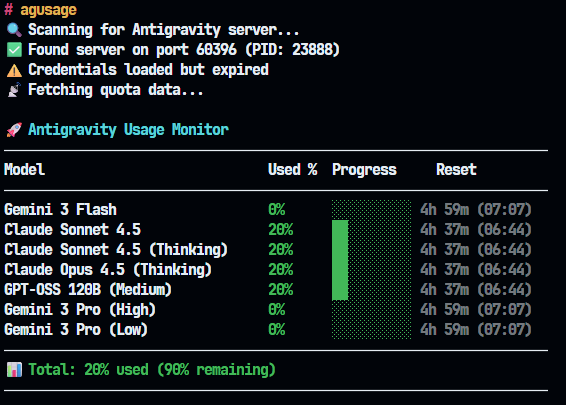
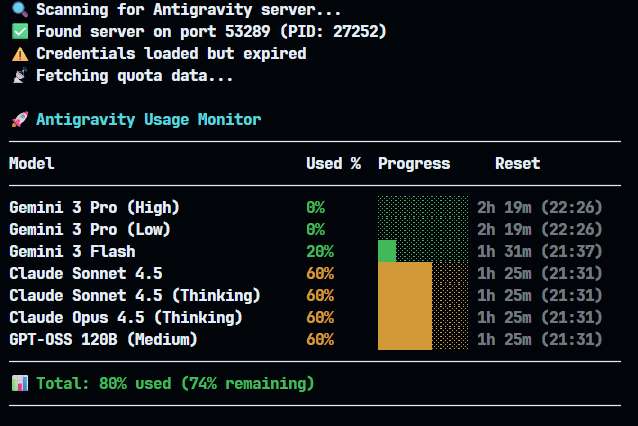
fix: total usage calculation and shared quota deduplication

diff --git a/internal/display/formatter.go b/internal/display/formatter.go
@@ -82,6 +82,7 @@ type quotaKey struct {
 	Used      float64
 	Limit     float64
 	Remaining float64
+	ResetTime string
 }
 
 func calculateTotals(models []api.QuotaInfo) (float64, float64, float64) {
@@ -93,6 +94,7 @@ func calculateTotals(models []api.QuotaInfo) (float64, float64, float64) {
 			Used:      model.Used,
 			Limit:     model.Limit,
 			Remaining: model.Remaining,
+			ResetTime: model.ResetTime,
 		}
 
 		if !uniqueQuotas[key] {
@@ -143,7 +145,7 @@ func printFooter(used, limit, remaining float64, tier string, credits int) {
 	summaryColor := getRemainingColor(totalRemainingPercent)
 
 	fmt.Printf("%s📊 Total: %.1f%% used (%.1f%% remaining)%s\n",
-		summaryColor, used, totalRemainingPercent, Reset)
+		summaryColor, totalUsagePercent, totalRemainingPercent, Reset)
 	fmt.Println(strings.Repeat("─", 68))
 
 	// Tier and credits
